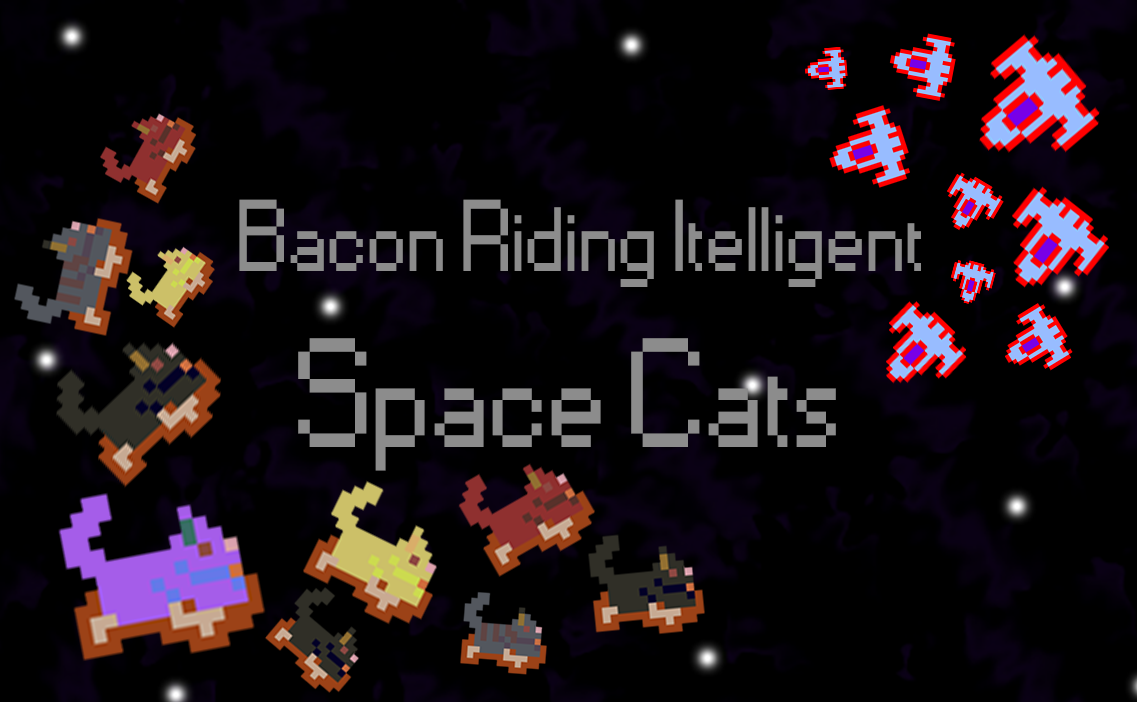
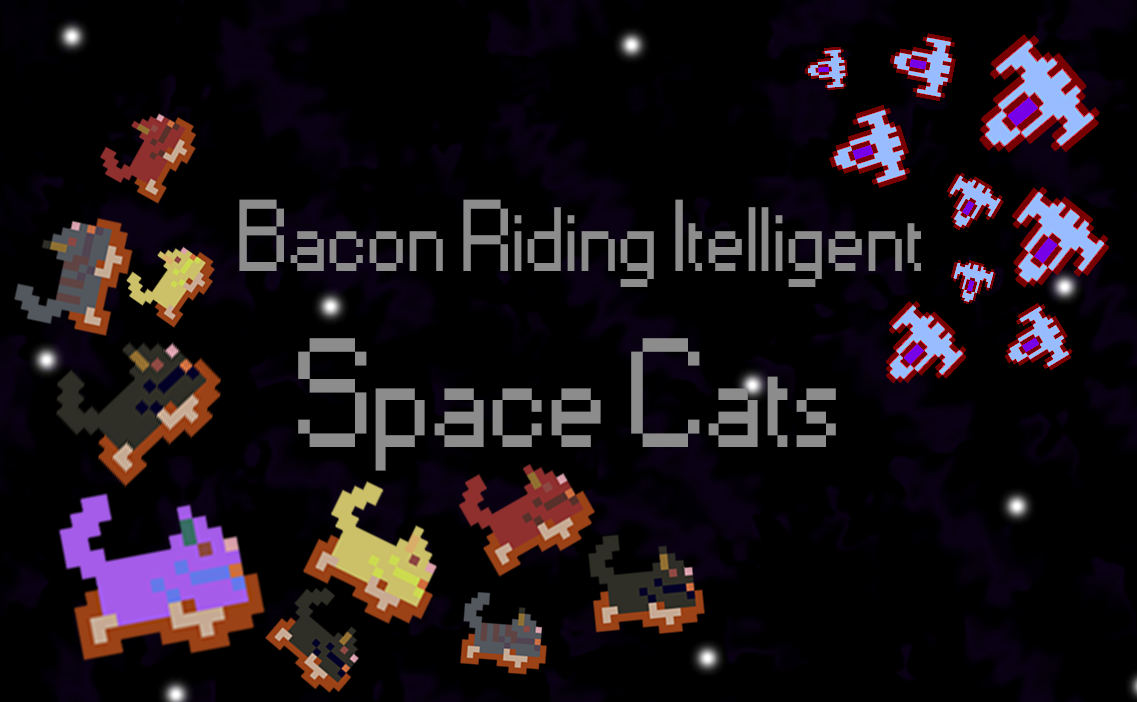
Pre-loaded Menu Background
I made the code that darkens the borders of the enemies also save the
file, then removed it and replace the background image with the saved
file. Now it loads a lot quicker.

diff --git a/src/com/brisc/BRISC/states/Menu.java b/src/com/brisc/BRISC/states/Menu.java
@@ -7,10 +7,17 @@ package com.brisc.BRISC.states;
 
 import com.brisc.BRISC.BaconRidingIntelligentSpaceCats;
 import com.brisc.Resources.ResourceManager;
+import com.sun.org.apache.bcel.internal.util.ClassLoader;
+
 import java.awt.*;
 import java.awt.event.MouseEvent;
 import java.awt.image.BufferedImage;
+import java.io.File;
+import java.io.IOException;
 import java.util.*;
+
+import javax.imageio.ImageIO;
+
 import com.brisc.BRISC.menu.Button;
 import com.brisc.BRISC.worldManager.Generator;
 import com.brisc.BRISC.worldManager.World;
@@ -35,29 +42,7 @@ public class Menu extends GamePhase {
         buttons.add(new Button(1080/2 - width/2,660, width, height, "Exit"));
         
         image = ResourceManager.getResource(ResourceManager.Resources.backGround);
-        edit(image);
         
-    }
-    
-    static void edit(BufferedImage image) {
-    	
-    	for(int x = 0; x < image.getWidth() - 1; x++)
-    		for(int y = 0; y < image.getHeight() - 1; y++) {
-    			
-    			Color value = new Color(image.getRGB(x, y));
-    			
-    			if(value.getRed() > 140)
-    				if(value.getBlue() < 80)
-    					if(value.getGreen() < 20) {
-    						
-    						value = new Color(120, 0, 0);
-    						
-    					}	
-    			
-    			image.setRGB(x, y, value.getRGB());
-    			
-    		}
-    	
     }
     
     @Override
